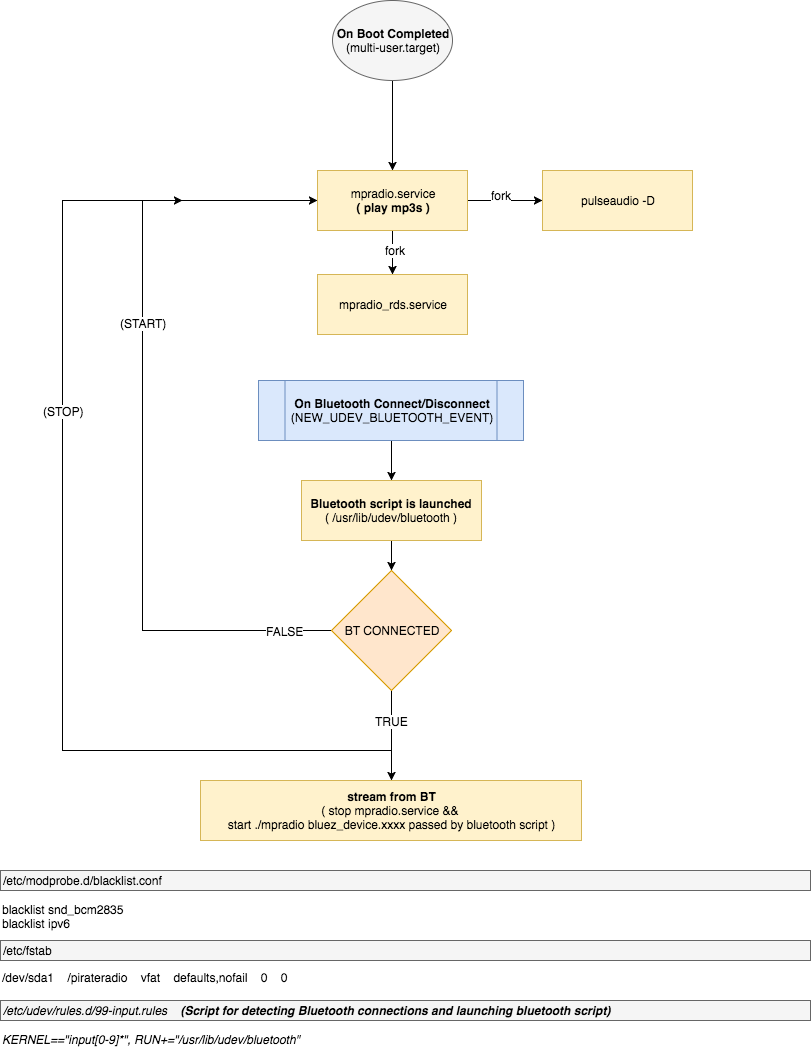
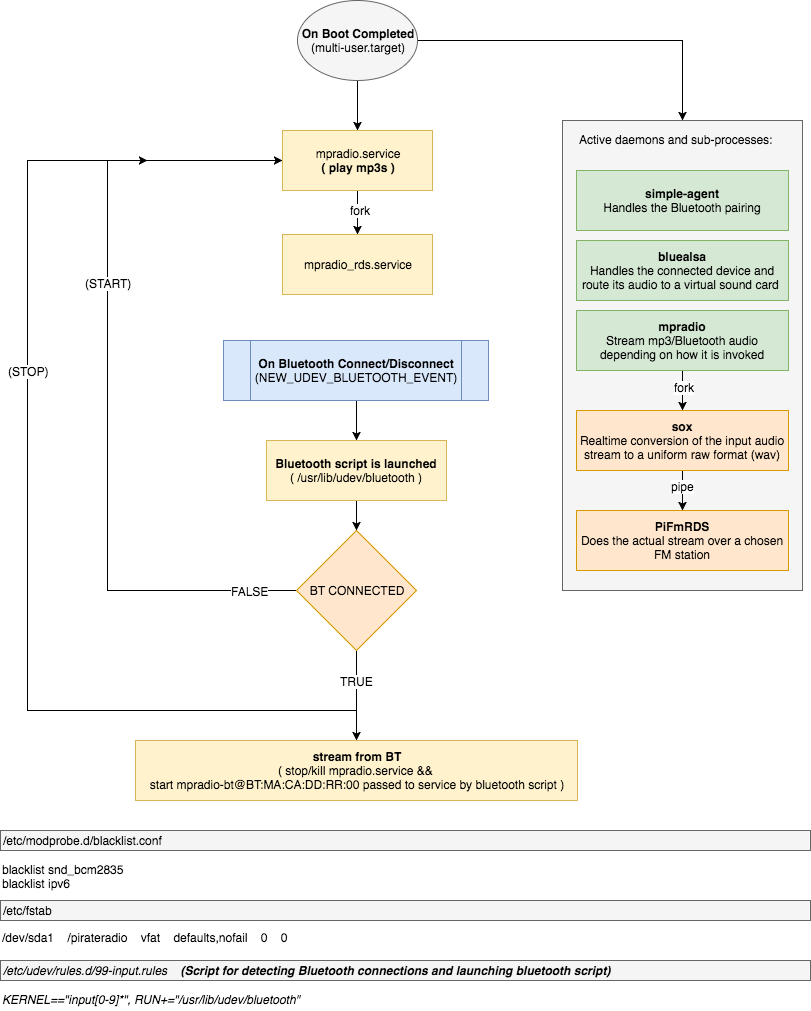
increased BT playback volume

diff --git a/src/player.cc b/src/player.cc
@@ -104,7 +104,7 @@ int play_bt(string device)
 	//string s2="-audio -\"";
 	//string cmdline=s0+" "+device+" | "+s1+" "+s.freq+" "+s2;
 	
-	string cmdline="arecord -D bluealsa -f cd -c 2 | sox -t raw -v 1.3 -G -b 16 -e signed -c 2 -r 44100 - -t wav - | sudo /home/pi/PiFmRds/src/pi_fm_rds -ps 'BLUETOOTH' -rt 'A2DP BLUETOOTH' -freq 88.8 -audio -";
+	string cmdline="arecord -D bluealsa -f cd -c 2 | sox -t raw -v 1.7 -G -b 16 -e signed -c 2 -r 44100 - -t wav - | sudo /home/pi/PiFmRds/src/pi_fm_rds -ps 'BLUETOOTH' -rt 'A2DP BLUETOOTH' -freq 88.8 -audio -";
 
 	system(cmdline.c_str());
 
